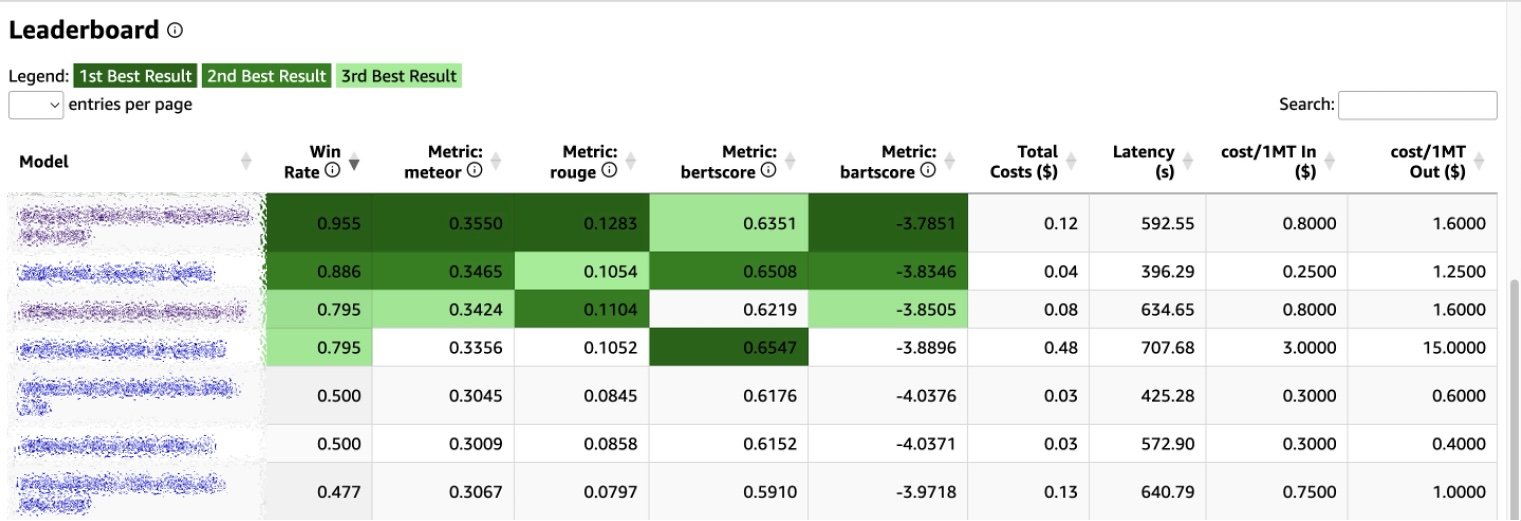
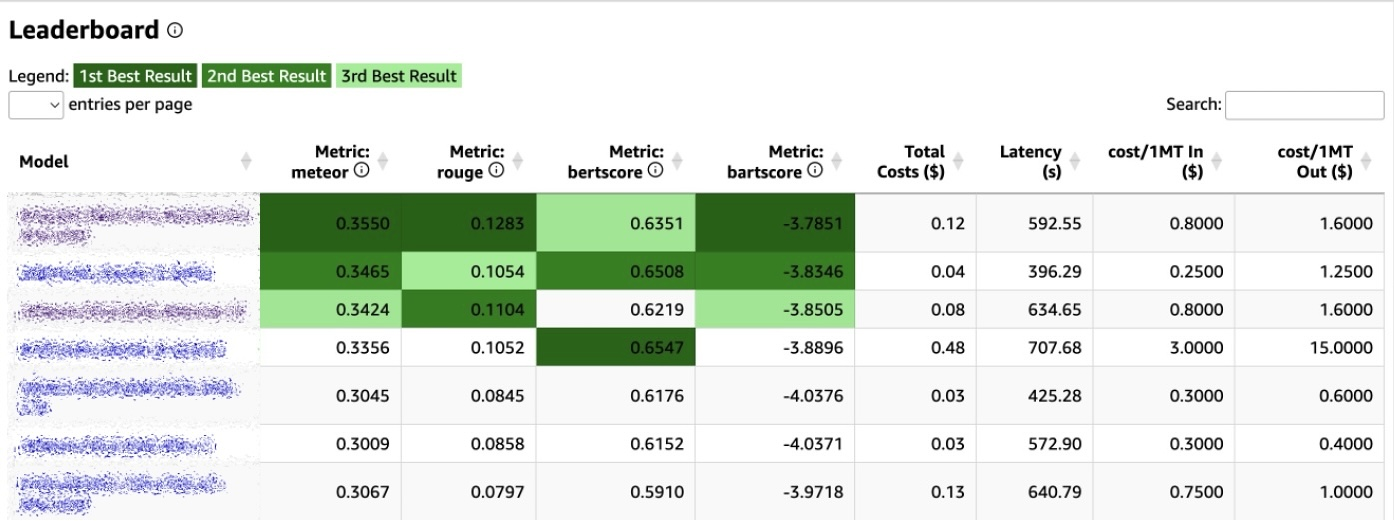
improved readability of cost and latency

diff --git a/utils/dashboard_creators/main_html_creator.py b/utils/dashboard_creators/main_html_creator.py
@@ -5,7 +5,7 @@ from os.path import isfile, join
 from utils.model_runners.pricing_calculator import PricingCalculator
 
 
-def create_main_html(result_folder, models_scores, model_usage, model_ranking):
+def create_main_html(result_folder, models_scores, model_usage):
     model_outputs = dict()
     test_samples = []
 
@@ -40,13 +40,12 @@ def create_main_html(result_folder, models_scores, model_usage, model_ranking):
   # generate headers name
     headers = ['Model']
     models_run = list(models_scores.keys())
-    headers.append('Win Rate')
     if len(models_run) > 0:
         metrics_used = list(models_scores[models_run[0]].keys())
         for mu in metrics_used:
             headers.append(f'Metric: {mu}')
-    headers.append('Total Costs ($)')
-    headers.append('Latency (s)')
+    headers.append('Testing Costs ($)')
+    headers.append('Avg Latency (s)')
     headers.append('cost/1MT In ($)')
     headers.append('cost/1MT Out ($)')
     
@@ -54,12 +53,11 @@ def create_main_html(result_folder, models_scores, model_usage, model_ranking):
     rows = []
     for model_id, scores in models_scores.items():
         row = [f'<a href="html_files/{model_id}_results.html">{model_id}</a>']
-        row.append("{:.3f}".format(model_ranking[model_id]) )
         for mu in metrics_used:
             row.append("{:.4f}".format(scores[mu]))
         if model_id in model_usage and model_usage[model_id] is not None and model_usage[model_id]['cost_model'] == PricingCalculator.COST_PER_TOKEN:
             row.append("{:.2f}".format(model_usage[model_id]['cost']))        
-            row.append("{:.2f}".format(model_usage[model_id]['processing_time']))
+            row.append("{:.2f}".format(model_usage[model_id]['avg_processing_time']))
             row.append("{:.4f}".format(model_usage[model_id]['cost_input_1M']))
             row.append("{:.4f}".format(model_usage[model_id]['cost_output_1M']))
         else:

diff --git a/utils/model_runners/pricing_calculator.py b/utils/model_runners/pricing_calculator.py
@@ -332,9 +332,11 @@ class PricingCalculator():
       'cost_input_1M': None,
       'cost_output_1M': None
       }
+      samples = 0
 
       with open(file, 'r') as file:
           for line in file:
+              samples = samples + 1
               item = json.loads(line)
               input_tokens = item['input_tokens'] if 'input_tokens' in item else 0
               output_tokens = item['output_tokens'] if 'output_tokens' in item else 0
@@ -360,7 +362,9 @@ class PricingCalculator():
                                                                       
 
       # Convert the sum dictionary to JSON string
-    
+      sum_dict['samples'] = samples
+      sum_dict['avg_cost'] = sum_dict['cost'] / samples
+      sum_dict['avg_processing_time'] = sum_dict['processing_time'] / samples
       return sum_dict
 
   @classmethod
